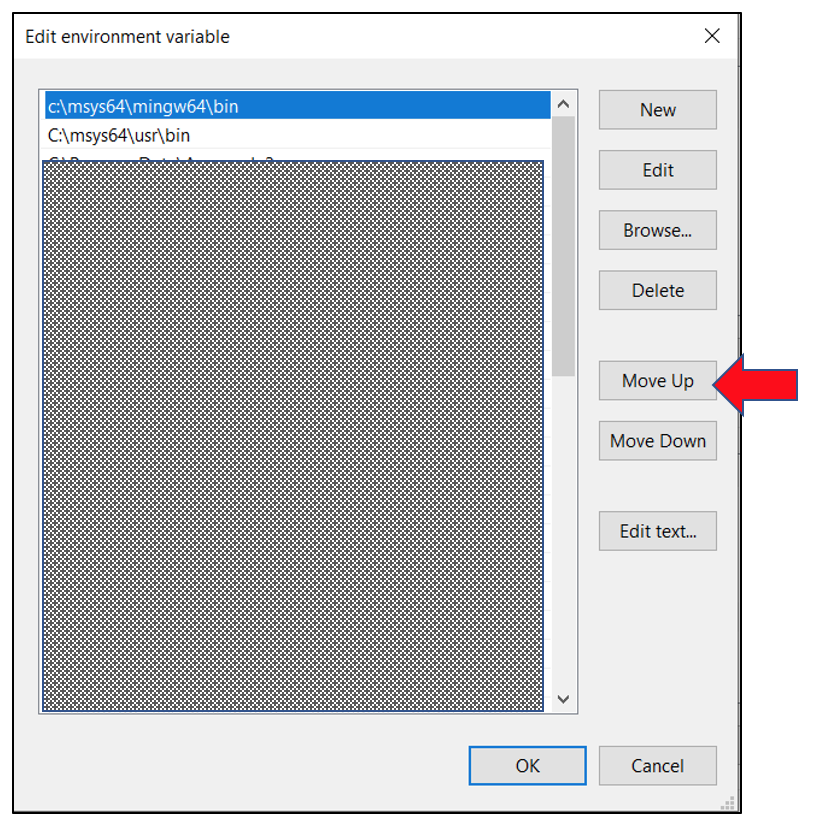
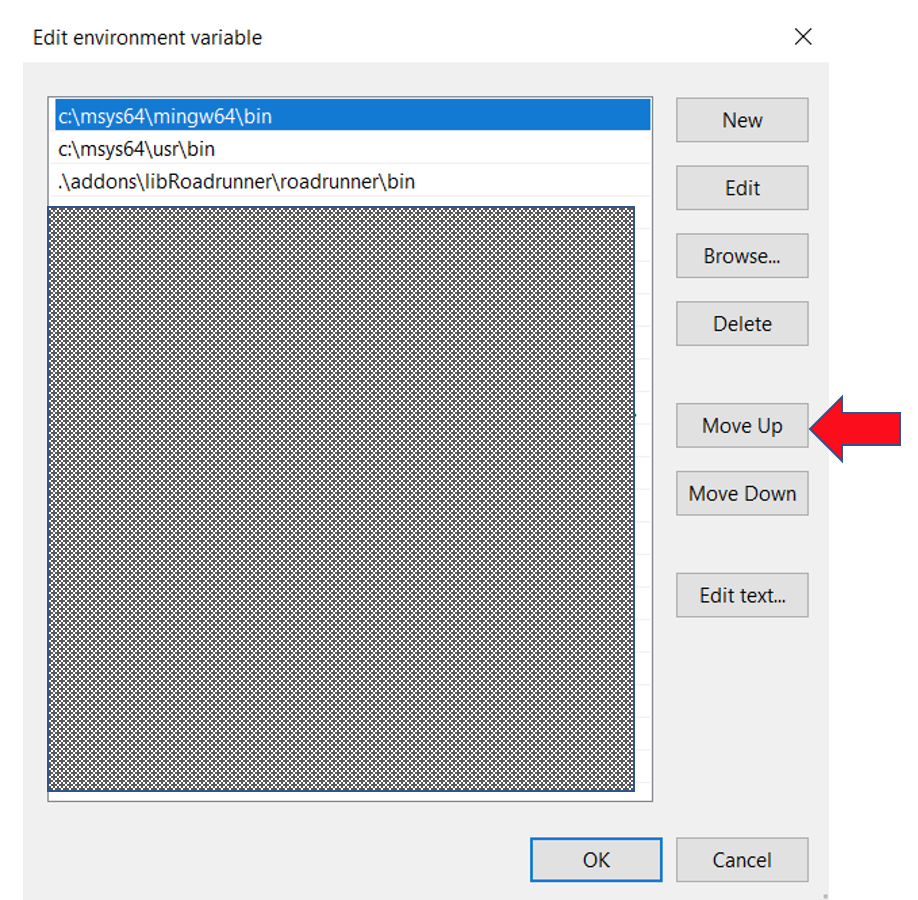
updates

diff --git a/documentation/Quickstart.md b/documentation/Quickstart.md
@@ -48,15 +48,21 @@ a minimal version of GCC that supports OpenMP (on a 64-bit computer).
 $ pacman -S mingw-w64-x86_64-binutils mingw-w64-x86_64-gcc mingw-w64-x86_64-headers-git  mingw-w64-x86_64-gcc-libs mingw-w64-x86_64-libwinpthread-git mingw-w64-x86_64-winpthreads-git mingw-w64-x86_64-lapack mingw-w64-x86_64-openblas mingw-w64-x86_64-libxml2 mingw-w64-x86_64-bzip2 git make
 ```
 
-3) After the above completes, open the Windows application to let you edit your Environment Variables. You have the option of editing the “User variables” or “System variables”. If it is just for your use and not intended to be shared by other users on this computer, then you can just edit “User variables”. Edit the “Path” variable and add two “New” paths:
+3) After the above completes, open the Windows application to let you edit your Environment Variables. You have the option of 
+editing the “User variables” or “System variables”. If it is just for your use and not intended to be shared by other 
+users on this computer, then you can just edit “User variables”. Edit the “Path” variable and add three “New” 
+paths. The first two pertain to the MinGW build environment; the third is for using the libRoadrunner library that's needed
+by the intracellular models (ODEs) (and is a relative path from your PhysiCell main folder).
+
 ```
 C:\msys64\mingw64\bin
 C:\msys64\usr\bin
+.\addons\libRoadrunner\roadrunner\bin
 ```
 
 4) Using the same application as above, `Move up` each of the two new paths to be at the very top.
 
-<img src="images/mingw64_env_var_path.png" width="407" height="413">
+<img src="images/mingw64_env_var_path.png" width="459" height="450">
 
 Then click `OK` on each Edit env variable window to complete the PATH update.
 
@@ -68,7 +74,7 @@ Copyright (C) 2020 Free Software Foundation, Inc.
 ```
 
 
-### macOS
+### MacOS
 
 Unfortunately, the C++ compiler provided by the latest version of XCode on macOS does not support OpenMP.
 To resolve this, we recommend using the `brew` package manager to install a recent version of `gcc`. Follow the [brew 
@@ -82,24 +88,27 @@ $ ls -l /usr/local/bin/g++*
    ...             /usr/local/bin/g++-11@ -> ../Cellar/gcc/11.1.0_1/bin/g++-11
 ```
 
-Set the following environment variable in your Terminal's shell, e.g., in the bash shell: 
+Set the following environment variables in your Terminal's shell, e.g., in the bash or zsh shell: 
 ```
 $ export PHYSICELL_CPP=/usr/local/bin/g++-11
+$ export DYLD_LIBRARY_PATH=$DYLD_LIBRARY_PATH:./addons/libRoadrunner/roadrunner/lib
 ```
-and the Makefile will use it. You should permanently set this in your environment (assuming you're using the bash shell): 
+You should permanently set these in your environment: for the bash shell: 
 ```
 $ echo export PHYSICELL_CPP=g++-11 >> ~/.bash_profile
+$ export DYLD_LIBRARY_PATH=$DYLD_LIBRARY_PATH:./addons/libRoadrunner/roadrunner/lib >> ~/.bash_profile
 ```
-or, if your Mac Terminal is using the zsh shell:
+or the zsh shell:
 ```
 $ echo export PHYSICELL_CPP=g++-11 >> ~/.zshenv
+$ export DYLD_LIBRARY_PATH=$DYLD_LIBRARY_PATH:./addons/libRoadrunner/roadrunner/lib >> ~/.zshenv
 ```
 
 
 ### Linux
 
-If you're a Linux user, you probably already have or know how to install/use a proper g++ environment for 
-building PhysiCell. If not, please reach out to the PhysiCell community.
+If you're a Linux user, you should already have an OpenMP-enabled g++.
+But you will need to append the libRoadrunner relative path to your `LD_LIBRARY_PATH` (similar to the instructions for macOS) if you plan to use that for intracellular ODE models.
 
 <hr> <!---------------------------------------------->
 
